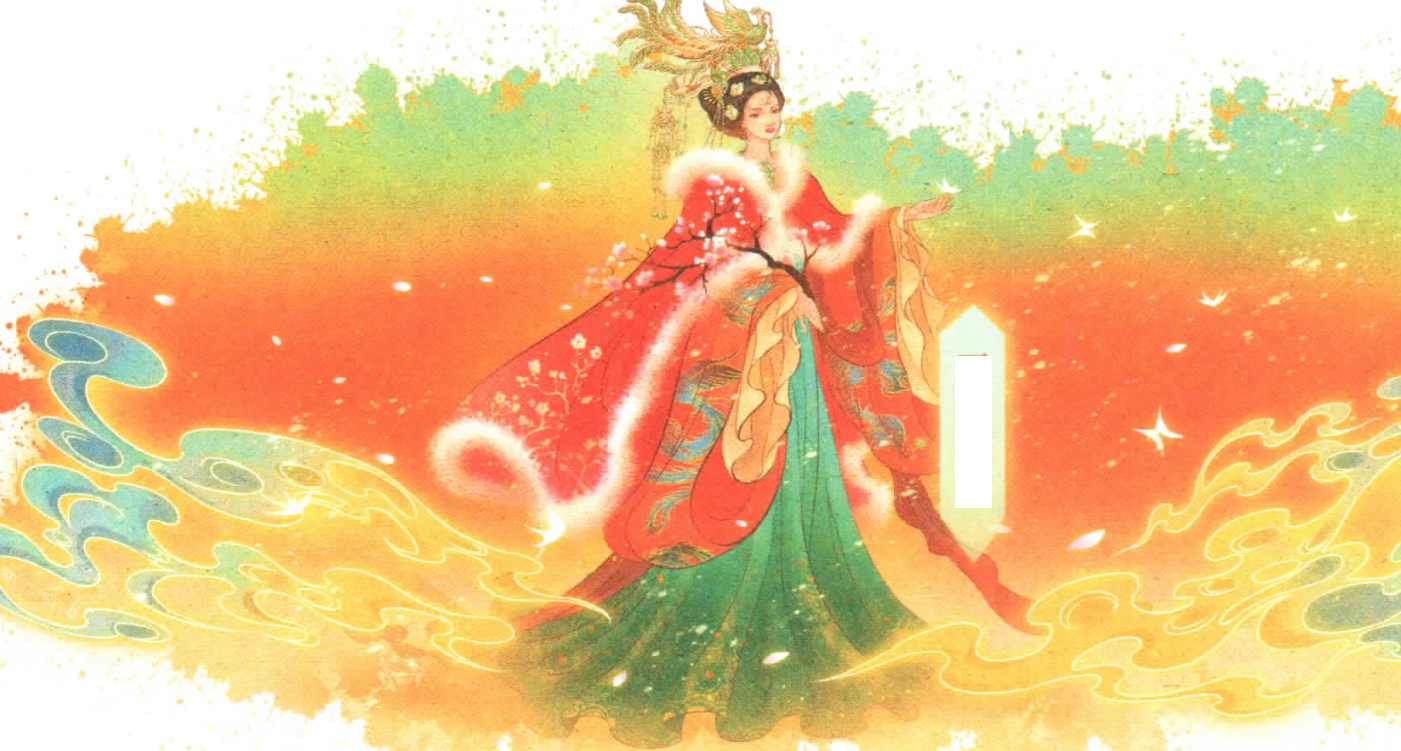
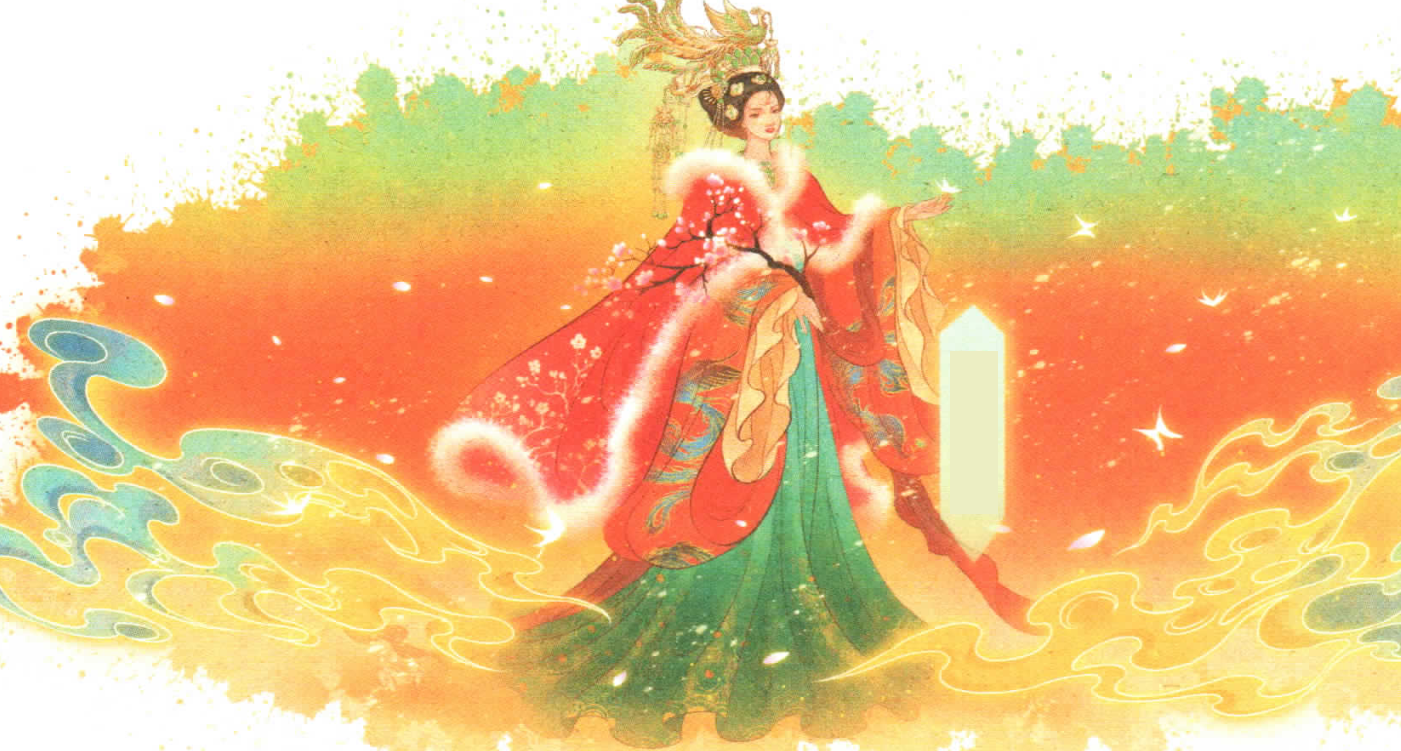
update mask

Changed region(s): [[0.6752, 0.4594, 0.7366, 0.6738]]

diff --git a/ImageExtract.py b/ImageExtract.py
@@ -100,5 +100,12 @@ def mask(page, textBox):
         y0 = int(coordinate[0][1])
         x1 = int(coordinate[2][0])
         y1 = int(coordinate[2][1])
-        page[y0:y1, x0:x1, :] = 255
+        for i in range(3):
+            color_sum = 0
+            color_sum += np.sum(page[y0:y1+1, x0, i])
+            color_sum += np.sum(page[y0:y1+1, x1, i])
+            color_sum += np.sum(page[y0, x0+1:x1, i])
+            color_sum += np.sum(page[y1, x0+1:x1, i])
+            color = color_sum/(y1-y0+x1-x0+2)/2
+            page[y0-5:y1+6, x0-5:x1+6, i] = color
     return page
